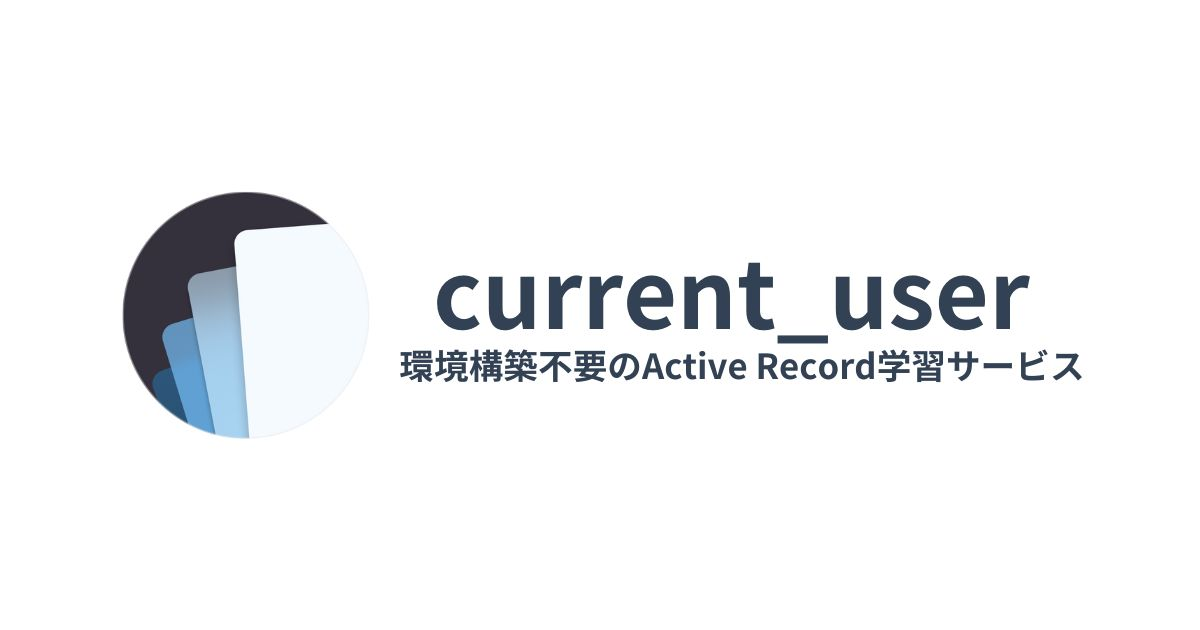
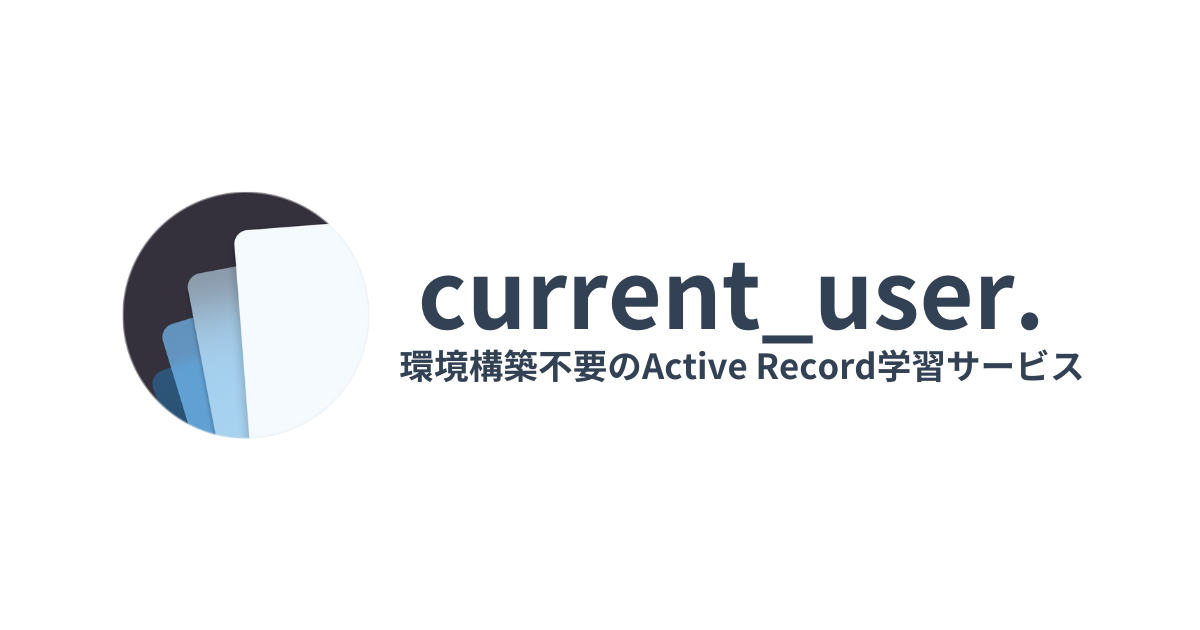
⚡ mod

Changed region(s): [[0.3392, 0.4222, 0.6475, 0.5429], [0.6783, 0.4222, 0.8633, 0.5429]]

diff --git a/src/app/components/CodeEditor.tsx b/src/app/components/CodeEditor.tsx
@@ -16,16 +16,40 @@ export default function CodeEditor({
 		fontSize: 16,
 	};
 
+	const handleEditorDidMount = (editor: any, monaco: any) => {
+		monaco.editor.defineTheme('myTheme', {
+			base: 'vs-dark',
+			inherit: true,
+			rules: [
+				{ token: 'identifier', foreground: '#6099C8' },
+				{ token: 'identifier.function', foreground: '#DCDCAA' },
+				{ token: 'type', foreground: '#1AAFB0' },
+				{ token: 'lineNumbers', foreground: '#9CDCFE' },
+				{ token: 'keyword.operator', foreground: '#FF0000' },
+			],
+			colors: {
+				'editor.foreground': '#6099C8',
+				'editorLineNumber.foreground': '#999999',
+				'editor.selectionBackground': '#BDD5FC',
+				'editor.inactiveSelectionBackground': '#D4D4D4',
+			},
+		});
+
+		// テーマの適用
+		editor.updateOptions({ theme: 'myTheme' });
+
+		onMount(editor);
+	};
+
 	return (
 		<Editor
-			theme="vs-light"
 			height="440px"
 			defaultLanguage="ruby"
-			defaultValue=""
+			defaultValue={'\n'.repeat(16)}
 			loading={<CircularProgress style={{ color: 'grey' }} />}
 			className=" overflow-hidden"
 			options={options}
-			onMount={onMount}
+			onMount={handleEditorDidMount}
 		/>
 	);
 }

diff --git a/src/app/layout.tsx b/src/app/layout.tsx
@@ -8,6 +8,11 @@ export const metadata: Metadata = {
 	metadataBase: new URL('https://current-user.vercel.app/'),
 	title: 'ActiveRecord学習サービス | current_user.',
 	description: '環境構築不要のActiveRecord学習サービス',
+	openGraph: {
+		title: 'ActiveRecord学習サービス | current_user.',
+		description: '環境構築不要のActiveRecord学習サービス',
+	},
+	twitter: { card: 'summary_large_image' },
 };
 
 export default function RootLayout({
@@ -17,10 +22,6 @@ export default function RootLayout({
 }) {
 	return (
 		<html lang="en">
-			<meta
-				name="twitter:image"
-				content="https://current-user.vercel.app/twitter-image.jpg"
-			></meta>
 			<body>
 				<NextAuthProvider>
 					<Toaster position="bottom-center" reverseOrder={true} />

diff --git a/src/app/works/[slug]/[id]/page.tsx b/src/app/works/[slug]/[id]/page.tsx
@@ -357,8 +357,8 @@ const Page = () => {
 										<Image
 											src="/db.png"
 											alt="db"
-											width={495}
-											height={295}
+											width={470}
+											height={270}
 											style={{
 												margin: 'auto',
 												display: 'block',
@@ -369,8 +369,8 @@ const Page = () => {
 										<Image
 											src="/relation.png"
 											alt="relation"
-											width={575}
-											height={530}
+											width={495}
+											height={450}
 											style={{
 												margin: 'auto',
 												display: 'block',

diff --git a/src/app/robot.ts b/src/app/robot.ts
@@ -3,8 +3,8 @@ import { MetadataRoute } from 'next';
 export default function robots(): MetadataRoute.Robots {
 	return {
 		rules: {
-			userAgent: '*',
-			allow: '/',
+			userAgent: 'Twitterbot',
+			allow: '/app/*',
 			disallow: '/private/',
 		},
 		sitemap: 'https://acme.com/sitemap.xml',
